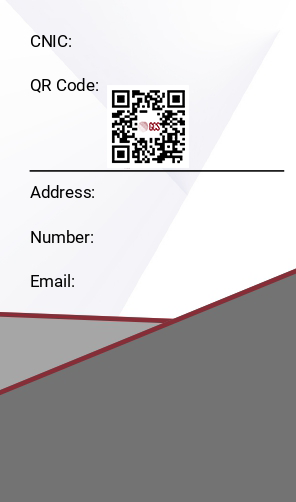
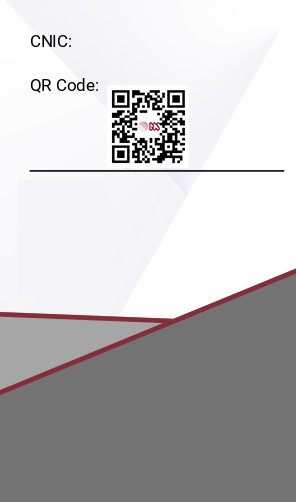
#31 completed (afaik)

Changed region(s): [[0.0912, 0.3586, 0.3041, 0.4183], [0.0912, 0.4482, 0.3041, 0.508], [0.0912, 0.5378, 0.2432, 0.5976]]

diff --git a/company_management_system/employee_management/views.py b/company_management_system/employee_management/views.py
@@ -87,6 +87,7 @@ from rest_framework.response import Response
 from rest_framework.permissions import IsAdminUser
 from .models import Employee
 from .serializers import AdminEmployeeSerializer
+from textwrap import wrap
 
 
 logger = logging.getLogger(__name__)
@@ -1300,13 +1301,24 @@ class GenerateEmployeeCardView(View):
             
         draw = ImageDraw.Draw(self.page1)
         # Write the name of the employee in the center
-        full_name = f"{self.employee.first_name} {self.employee.last_name}"
+        full_name = f"{self.employee.first_name} {self.employee.middle_name} {self.employee.last_name}"
         name_font = ImageFont.truetype(self.font_path, 25)
-        bbox = draw.textbbox((0, 0), text=full_name, font=name_font)
         page_width = self.page1.size[0]
-        text_width = bbox[2] - bbox[0]
-        x_position = (page_width - text_width) / 2
-        draw.text((x_position, 320), full_name, font=name_font, fill="white")
+        
+        # Wrap text to fit within the max width
+        wrapped_text = wrap(full_name, width=19)
+
+        # Calculate the total height for all lines to vertically center them
+        line_height = name_font.getbbox("A")[1] + 25
+        total_text_height = line_height * len(wrapped_text)
+        y_start = 320 - (total_text_height // 2) 
+
+        # Draw each line centered
+        for i, line in enumerate(wrapped_text):
+            text_width = draw.textbbox((0, 0), text=line, font=name_font)[2]
+            x_position = (page_width - text_width) / 2
+            y_position = y_start + i * line_height
+            draw.text((x_position, y_position), line, font=name_font, fill="white")
         
         font = ImageFont.truetype(self.font_path, 18)
         # Add Fields to the Card
@@ -1325,7 +1337,29 @@ class GenerateEmployeeCardView(View):
 
         # Add text to the card
         draw.text((80, 30), f"{self.employee.cnic_no}", fill="black", font=font)
-        draw.text((105, 180), f"{self.employee.address}", fill="black", font=font)
-        draw.text((105, 227), f"{self.employee.phone}", fill="black", font=font)
-        draw.text((85, 270), f"{self.employee.email}", fill="black", font=font)
-           
+        
+        # Address should wrap since it can be longer
+        # draw.text((105, 180), f"{self.employee.address}", fill="black", font=font)
+
+        address = f"{self.employee.address}"
+        
+        # Wrap text to fit within the max width
+        wrapped_text = wrap(address, width=25)
+
+        # Calculate the total height for all lines to vertically center them
+        line_height = font.getbbox("A")[1] + 20
+        y_start = 180
+
+        for i, line in enumerate(wrapped_text):
+            y_position = y_start + i * line_height
+            draw.text((105, y_position), line, font=font, fill="black")
+        
+        # 227, 270
+        draw.text((105, y_position + 47), f"{self.employee.phone}", fill="black", font=font)
+        draw.text((85, y_position + 90), f"{self.employee.email}", fill="black", font=font)
+        
+        # Add Fields to the Card
+        draw.text((25, 180), f"Address:", fill="black", font=font)
+        draw.text((25, y_position + 47), f"Number:", fill="black", font=font)
+        draw.text((25, y_position + 90), f"Email:", fill="black", font=font)
+        

diff --git a/company_management_system/company_management_system/settings.py b/company_management_system/company_management_system/settings.py
@@ -114,7 +114,7 @@ DATABASES = {
         'ENGINE': 'django.db.backends.mysql',
         'NAME': 'cms',
         'USER': 'root',
-        'PASSWORD': 'root',
+        'PASSWORD': '12345678',
         'HOST': 'localhost',
         'PORT': '3306',
     }
